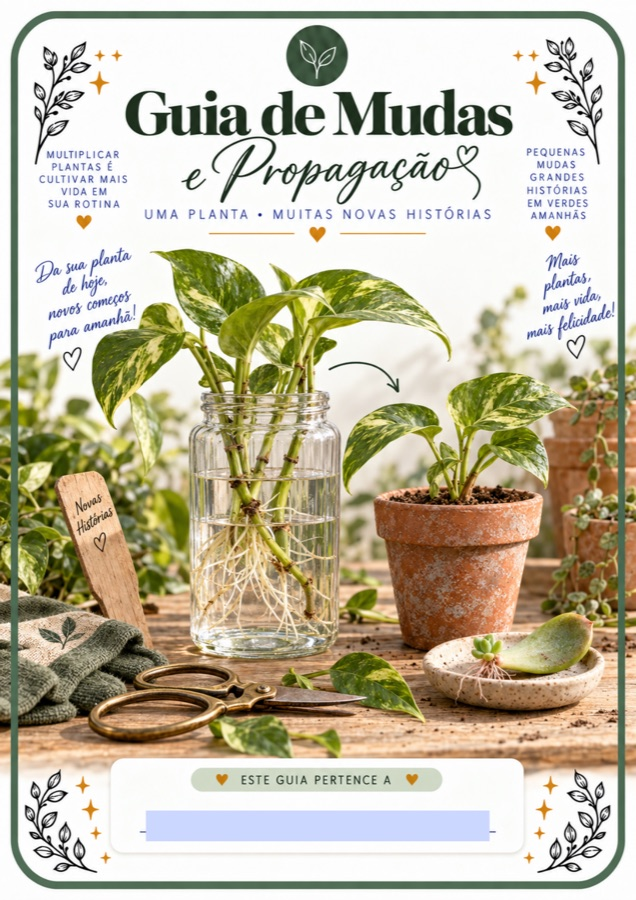
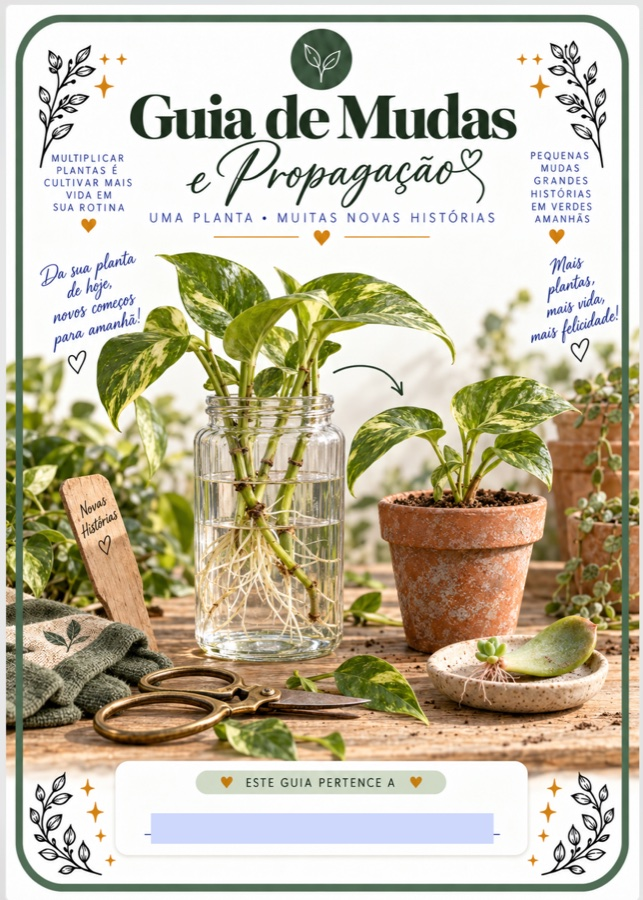
Completa o Kit Lar Verde: 7 materiais + link real de checkout
- Guia de Ferramentas Essenciais e Plano Jardim Vivo em 7 Dias, os 2
  materiais que faltavam, agora com capa real — nenhum "em breve"
- Troca as 5 capas extraídas de PDF pelas versões limpas da pasta
  Capas/ (sem o campo de assinatura aparecendo como caixa azul)
- Botões de compra apontam pro checkout real da Kiwify

diff --git a/kit-lar-verde/index.html b/kit-lar-verde/index.html
@@ -145,7 +145,7 @@ footer.kit{text-align:center;padding:26px 0;font-size:.8rem;color:#a89a88}
       <span class="eyebrow">Kit digital · 7 materiais</span>
       <h1>Cuide das suas plantas sem <span class="script">medo de errar</span> e tenha um cantinho verde bonito o ano inteiro</h1>
       <p class="lead">Um kit completo de planners, guias e checklists para você regar, podar, adubar e multiplicar suas plantas com segurança — mesmo que você ache que não tem mão boa.</p>
-      <a class="btn" href="#checkout-kiwify">QUERO CUIDAR DAS MINHAS PLANTAS</a>
+      <a class="btn" href="https://pay.kiwify.com.br/qOu9IOd">QUERO CUIDAR DAS MINHAS PLANTAS</a>
       <div class="hero-stats">
         <div><span class="ic">🌱</span> Plantas mais bonitas</div>
         <div><span class="ic">📋</span> Rotina mais simples</div>
@@ -220,15 +220,15 @@ footer.kit{text-align:center;padding:26px 0;font-size:.8rem;color:#a89a88}
         <img src="/assets/kit/capa-guia-mudas.jpg" alt="Guia de Mudas e Propagação">
         <div><h3>Guia de Mudas e Propagação</h3><p>Multiplique suas plantas favoritas com segurança.</p></div>
       </div>
-      
       <div class="materiais-item">
-        <div class="soon-box"><span class="ic">🌱</span><span class="pill">Em breve</span></div>
+        <img src="/assets/kit/capa-ferramentas.jpg" alt="Guia de Ferramentas Essenciais">
         <div><h3>Guia de Ferramentas Essenciais</h3><p>O que você realmente precisa ter em casa.</p></div>
       </div>
       <div class="materiais-item">
-        <div class="soon-box"><span class="ic">🌱</span><span class="pill">Em breve</span></div>
+        <img src="/assets/kit/capa-7dias.jpg" alt="Plano Jardim Vivo em 7 Dias">
         <div><h3>Plano Jardim Vivo em 7 Dias</h3><p>Uma semana pra organizar seu cantinho verde do zero.</p></div>
       </div>
+      
     </div>
   </div>
 </section>
@@ -300,7 +300,7 @@ footer.kit{text-align:center;padding:26px 0;font-size:.8rem;color:#a89a88}
         </ul>
         <div class="preco">R$ 29,90</div>
         <div class="preco-sub">Pagamento único • Acesso digital</div>
-        <a class="btn" href="#checkout-kiwify">QUERO ACESSAR O KIT AGORA</a>
+        <a class="btn" href="https://pay.kiwify.com.br/qOu9IOd">QUERO ACESSAR O KIT AGORA</a>
       </div>
       <div class="oferta-imgs reveal">
         <img src="/assets/kit/capa-planner.jpg" alt="">
@@ -330,7 +330,7 @@ footer.kit{text-align:center;padding:26px 0;font-size:.8rem;color:#a89a88}
 <section class="cta-final">
   <div class="wrap reveal">
     <h2>Um cantinho verde bonito começa com pequenos cuidados.</h2>
-    <a class="btn" href="#checkout-kiwify">QUERO MEU KIT LAR VERDE</a>
+    <a class="btn" href="https://pay.kiwify.com.br/qOu9IOd">QUERO MEU KIT LAR VERDE</a>
     <div class="tags">
       <span>Mais verde</span><span>Mais leveza</span><span>Mais segurança</span><span>Mais você</span>
     </div>
